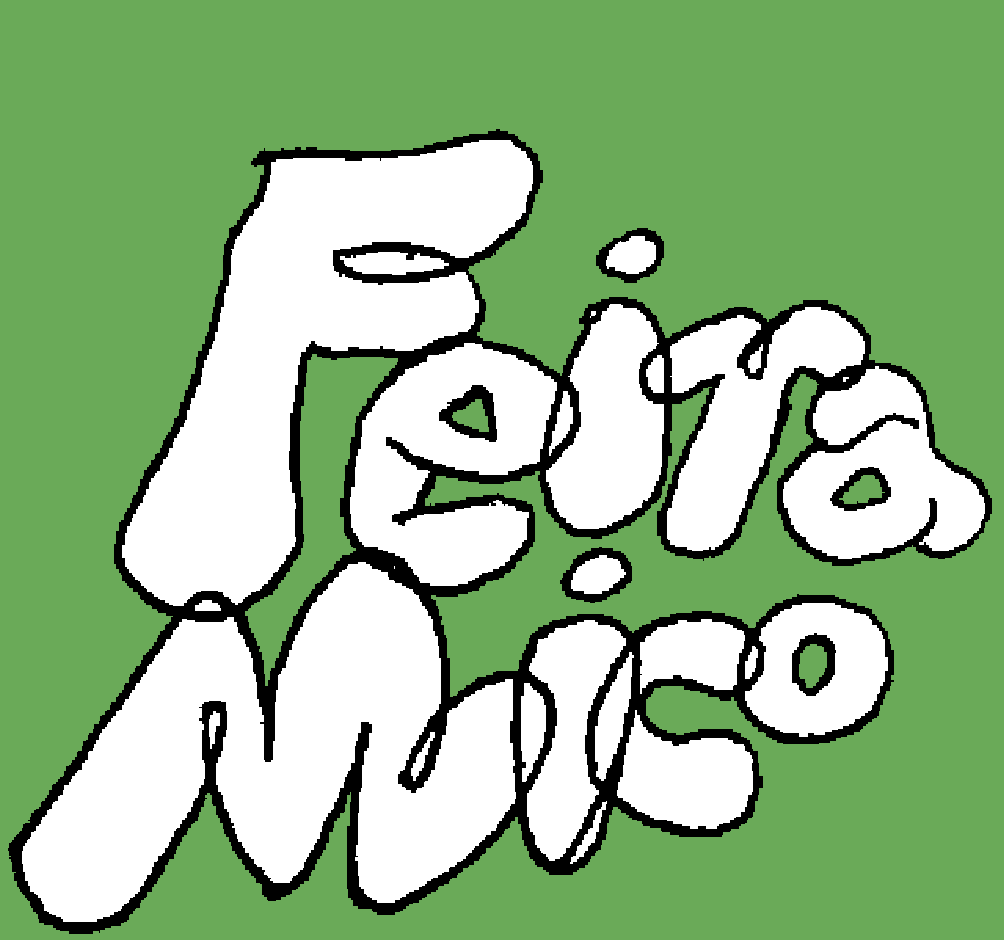
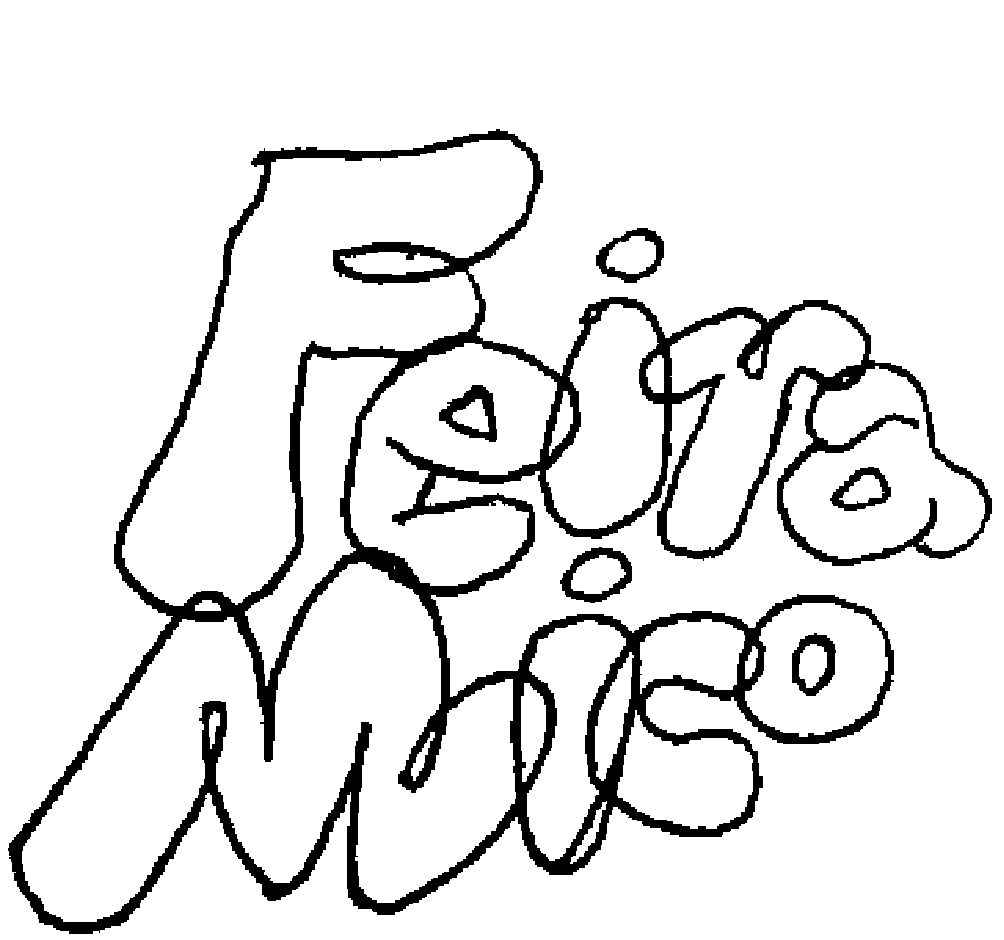
mico

diff --git a/sobre/index.html b/sobre/index.html
@@ -40,7 +40,7 @@
         }
 
         .white-box {
-            background-color: #dedede;
+            background-color: white;
             color: #252525;
             flex: 5;
             margin: 10% auto;